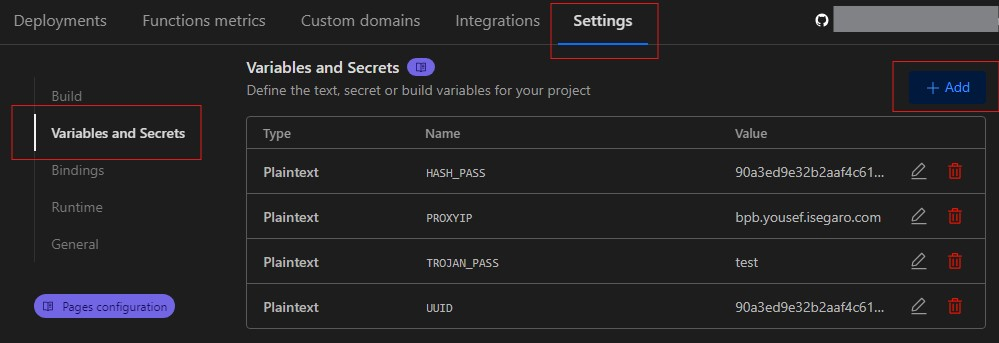
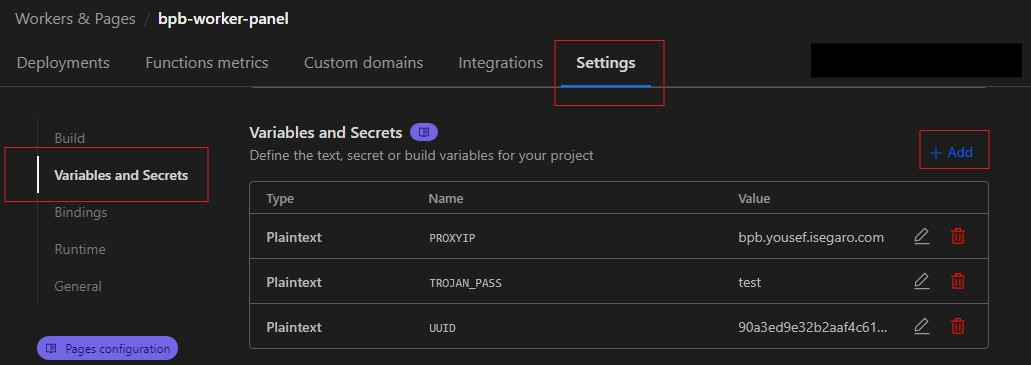
Updated docs.

diff --git a/src/_worker.js b/src/_worker.js
@@ -3865,7 +3865,7 @@ async function getXrayCustomConfigs(env, proxySettings, hostName, isFragment) {
                 
                 customConfig.remarks = remark;
                 if (chainProxy) {
-                    customConfig.outbounds.unshift(chainProxy, { ...outbound});
+                    customConfig.outbounds.unshift(chainProxy, {...outbound});
                     isDomain(addr)
                         ? customConfig.dns.servers[chainDnsServerIndex].domains.push(`full:${addr}`)
                         : customConfig.dns.servers.splice(chainDnsServerIndex, 1);
@@ -4889,7 +4889,7 @@ async function getSingBoxCustomConfig(env, proxySettings, hostName, client, isFr
     const customCdnAddresses = customCdnAddrs ? customCdnAddrs.split(',') : [];
     const totalAddresses = [...Addresses, ...customCdnAddresses];
     const totalPorts = ports.filter(port => isFragment ? defaultHttpsPorts.includes(port) : true);
-    let remark, path;
+    let remark;
     let proxyIndex = 1;
     const protocols = [
         ...(vlessConfigs ? ['VLESS'] : []),

diff --git a/docs/worker_installation_fa.md b/docs/worker_installation_fa.md
@@ -6,7 +6,7 @@
   <img src="assets/images/Worker_mobile_upload.jpg">
 </p>
 
-پنل با UUID و Proxy IP و پسوردهای Trojan پیشفرض خودش کار میکنه و میتونید ادامه بدید، ولی اگر خواستید تغییر بدید به بخش [تنظیمات پیشرفته](#تنظیمات-پیشرفته-اختیاری) برید و برگردید اینجا.
+پنل با UUID و Proxy IP و پسورد Trojan پیشفرض خودش کار میکنه و میتونید ادامه بدید، ولی اگر خواستید تغییر بدید به بخش [تنظیمات پیشرفته](#تنظیمات-پیشرفته-اختیاری) برید و برگردید اینجا.
 
  در نهایت ورکر رو `Save and Deploy` کنید.
 حالا از اینجا به داشبورد ورکر برگردید و این مراحل را دنبال کنید:
@@ -37,58 +37,51 @@
 نصب به پایان رسیده و توضیحاتی که در ادامه اومده شاید برای عموم لازم نباشه.
 آموزشهای تنظیمات و نکات هم که توی [آموزش اصلی](configuration_fa.md)  هست.
 <br><br>
-##  تنظیمات پیشرفته (اختیاری)
-شاید تا الان متوجه شده باشید که در مورد تغییر UUID و Proxy IP و پسورد Trojan چیزی نگفتیم چون میتونید از پیشفرض خود پنل استفاده کنید. اما برای تغییرشون میتونید مراحل زیر رو دنبال کنید، توصیه میشه حداقل UUID و پسوردهای Trojan رو تغییر بدید. 
+<h1 align="center">تنظیمات پیشرفته (اختیاری)</h1>
 
-### 1- تغییر UUID
-همونطور که میدونید UUID  مثل اسم رمزی میمونه که داخل لینکهای اشتراک و کانفیگ ها قرار میگیره و شما در صورت نیاز میتونید تغییر بدید. در صورت تغییر این پارامتر اتصال کاربرهای شما قطع میشه  و لازم هست لینک اشتراک و یا کانفیگ ها رو مجددا در اختیارشون قرار بدید. در صورتی که این UUID رو در این مرحله تعریف نکنید هم کد از یک UUID پیشفرض استفاده خواهد کرد.
+شاید تا الان متوجه شده باشید که در مورد تغییر UUID و Proxy IP و پسورد Trojan چیزی نگفتیم، چون شما میتونید بدون انجام این مرحله از تنظیمات پیشفرض پنل استفاده کنید. ولی توصیه میکنم حداقل UUID و پسورد Trojan رو عوض کنید.
+<br><br>
 
-تو خط 9 یه UUID هست و میتونید تغییرش ندید ولی ترجیحا اینجوری عوضش کنید: از [اینجا](https://www.uuidgenerator.net/) (تو خط 9 کد هم هست) یه UUID بگیرید و کپی کنید تو خط 10 جای قبلی و تمام. ورکر رو Save and Deploy کنید.
+## 1- تغییر UUID:
 
+همونطور که میدونید UUID  مثل اسم رمزی میمونه که داخل لینکهای اشتراک و کانفیگ ها قرار میگیره و شما در صورت نیاز میتونید تغییر بدید. در صورت تغییر این پارامتر اتصال کاربرهای شما قطع میشه و لازم هست لینک اشتراک و یا کانفیگ ها رو مجددا در اختیارشون قرار بدید. در صورتی که این UUID رو در این مرحله تعریف نکنید هم کد از یک UUID پیشفرض استفاده خواهد کرد.
+<br><br>
 
-
-### 2- ثابت کردن Proxy IP
+## 2- ثابت کردن Proxy IP:
 
 ما یه مشکلی داریم که این کد به صورت پیشفرض از تعداد زیادی IP Proxy استفاده میکنه که برای هر بار اتصال به سایتای پشت کلادفلر ( شامل بخش وسیعی از وب میشه) به صورت رندوم IP جدیدی انتخاب میکنه و در نتیجه به صورت متناوب IP شما تغییر پیدا میکنه. این تغییر IP شاید برای برخی مشکل ساز باشه (مخصوصا تریدرها). برای تغییر Proxy IP از ورژن 2.3.5 به بعد میتونید از طریق خود پنل انجام بدید، به این ترتیب که اعمال میکنید و ساب رو آپدیت میکنید و تمام. اما توصیه میکنم از روشی که در ادامه توضیح دادم استفاده کنید چون:
 
 > [!CAUTION]
 > اگر از طریق پنل Proxy IP رو اعمال کنید و اون IP از کار بیافته، باید یه IP جایگزین کنید و ساب رو آپدیت کنید. معنیش اینه که اگر کانفیگ اهدا کرده باشید و Proxy IP رو تغییر بدید دیگه فایدهای نداره چون یوزر ساب نداره که کانفیگ رو آپدیت کنه. بنابراین توصیه میشه از این روش فقط برای مصرف شخصی استفاده کنید. اما خوبی روش دوم که در ادامه میگم اینه که از طریق داشبورد کلادفلر انجام میشه و نیازی به آپدیت کردن کانفیگها نداره.
+<br><br>
+
+## 3- تغییر پسورد Trojan:
+
+پروتکل Trojan با پسورد پیشفرض خودش کار میکنه ولی با توجه به اینکه تعداد زیادی از این پنل استفاده میکنن، توصیه میکنم حتما این پسورد عوض بشه.
+
 <br>
 
-این لینک رو باز کنید (داخل کد ورکر خط 12 هم گذاشتم) یه تعدادی IP نشون میده که میتونید کشورشون رو هم چک کنید و یه دونه انتخاب کنید.
+برای تغییر UUID و Proxy IP و پسورد Trojan از منوی سمت چپ به قسمت `Workers & Pages` برید، ورکری که ساختید رو باز کنید، برید به قسمت `Settings` و `Variables and Secrets` رو پیدا کنید:
+
+<p align="center">
+  <img src="assets/images/Workers_variables.jpg">
+</p>
+
+اینجا باید مقادیر رو مشخص کنید. هر بار `Add` میزنید و یه کدوم رو وارد میکنید و `Deploy` میکنید:
+
+<p align="center">
+  <img src="assets/images/Workers_add_variables.jpg">
+</p>
+
+یه بار `Add variable` بزنید و خونه اول رو بنویسید `UUID` با حروف بزرگ، بعد از [اینجا](https://www.uuidgenerator.net/) یه UUID بگیرید و بذارید خونه دوم.
+
+حالا یه بار دیگه `Add variable` بزنید خونه اول `PROXYIP` با حروف بزرگ، IP رو هم میتونید از لینک زیر بگیرید، اینا رو باز کنید یه تعدادی IP نشون میده که میتونید کشورشون رو هم چک کنید و یه دونه انتخاب کنید:
 
 >[Proxy IP](https://www.nslookup.io/domains/bpb.yousef.isegaro.com/dns-records/)
-
 
 <p align="center">
   <img src="assets/images/Proxy_ips.jpg">
 </p>
 
-متن اول خط 14 به این صورت است:
-
-```javascript
-const proxyIPs= ['bpb.yousef.isegaro.com'];
-```
-
-بعد که خواستید IP رو بذارید این شکلی میشه:
-```javascript
-const proxyIPs = ['8.218.149.193'];
-```
-
-ورکر رو `Save and Deploy` کنید.
-> [!WARNING]
-> فقط حواستون باشه تعداد این IP ها زیاده و ممکنه تعداد زیادیشون از کار افتاده باشن. باید تست کنید تا یه خوبشو سوا کنید.
-
-> [!CAUTION]
-> اگر از تک IP استفاده کنید احتمالا بعد یه مدت دوباره از کار میافته و خیلی سایتا باز نمیشن. باید از اول این مراحلو برید.
-
-
-### 3- پسوردهای Trojan
-
-پروتکل Trojan با پسوردهای پیشفرض خودش کار میکنه ولی با توجه به اینکه تعداد زیادی از این پنل استفاده میکنن، توصیه میکنم حتما این دو تا پسورد عوض بشن. اگر به خط 18 نگاه کنید پسورد پیشفرض bpb-trojan رو میبینید، میتونید یه پسورد دلخواه اینجا بذارید، ولی دقت کنید هر وقت عوضش کنید نیازه که پسورد hash در خط 21 رو هم عوض کنید. به این شکل که پسورد جدید رو میذارید داخل یکی از لینکهای زیر و hash تولید شده رو میذارید خط 21:
-- وارد این سایت بشید و پسورد دلخواهتون رو بذارید input خودش قسمت output سریع hash رو بهتون میده.
-> https://emn178.github.io/online-tools/sha224.html
-
-- اگر از این استفاده میکنید، پسورد رو میذارید سمت چپ و convert رو میزنید.
-
-> https://www.atatus.com/tools/sha224-to-hash
+یه بار دیگه `Add variable` بزنید خونه اول `TROJAN_PASS` با حروف بزرگ، یه پسورد دلخواه بذارید.
+<br><br>

diff --git a/docs/pages_installation_fa.md b/docs/pages_installation_fa.md
@@ -82,16 +82,17 @@
 آموزشهای تنظیمات و نکات هم که تو [آموزش اصلی](configuration_fa.md)  هست.
 نصب به پایان رسیده و توضیحاتی که در ادامه اومده شاید برای عموم لازم نباشه!
 <br><br>
-##  تنظیمات پیشرفته (اختیاری)
-شاید تا الان متوجه شده باشید که در مورد تغییر UUID و Proxy IP و پسوردای Trojan چیزی نگفتیم، چون شما میتونید بدون انجام این مرحله از تنظیمات پیشفرض پنل استفاده کنید. ولی توصیه میکنم حداقل UUID و پسوردهای Trojan رو عوض کنید.
+<h1 align="center">تنظیمات پیشرفته (اختیاری)</h1>
+
+شاید تا الان متوجه شده باشید که در مورد تغییر UUID و Proxy IP و پسورد Trojan چیزی نگفتیم، چون شما میتونید بدون انجام این مرحله از تنظیمات پیشفرض پنل استفاده کنید. ولی توصیه میکنم حداقل UUID و پسورد Trojan رو عوض کنید.
 <br><br>
 
-### 1- تغییر UUID:
+## 1- تغییر UUID:
 
 همونطور که میدونید UUID  مثل اسم رمزی میمونه که داخل لینکهای اشتراک و کانفیگ ها قرار میگیره و شما در صورت نیاز میتونید تغییر بدید. در صورت تغییر این پارامتر اتصال کاربرهای شما قطع میشه  و لازم هست لینک اشتراک و یا کانفیگ ها رو مجددا در اختیارشون قرار بدید. در صورتی که این UUID رو در این مرحله تعریف نکنید هم کد از یک UUID پیشفرض استفاده خواهد کرد.
 <br><br>
 
-### 2- ثابت کردن Proxy IP:
+## 2- ثابت کردن Proxy IP:
 
 ما یه مشکلی داریم که این کد به صورت پیشفرض از تعداد زیادی IP Proxy استفاده میکنه که برای هر بار اتصال به سایتای پشت کلادفلر ( شامل بخش وسیعی از وب میشه) به صورت رندوم IP جدیدی انتخاب میکنه و در نتیجه به صورت متناوب IP شما تغییر پیدا میکنه. این تغییر IP شاید برای برخی مشکل ساز باشه (مخصوصا تریدرها). برای تغییر Proxy IP از ورژن 2.3.5 به بعد میتونید از طریق خود پنل انجام بدید، به این ترتیب که اعمال میکنید و ساب رو آپدیت میکنید و تمام. اما توصیه میکنم از روشی که در ادامه توضیح دادم استفاده کنید چون:
 
@@ -99,19 +100,25 @@
 > اگر از طریق پنل Proxy IP رو اعمال کنید و اون IP از کار بیافته، باید یه IP جایگزین کنید و ساب رو آپدیت کنید. معنیش اینه که اگر کانفیگ اهدا کرده باشید و Proxy IP رو تغییر بدید دیگه فایدهای نداره چون یوزر ساب نداره که کانفیگ رو آپدیت کنه. بنابراین توصیه میشه از این روش فقط برای مصرف شخصی استفاده کنید. اما خوبی روش دوم که در ادامه میگم اینه که از طریق داشبورد کلادفلر انجام میشه و نیازی به آپدیت کردن کانفیگها نداره.
 <br><br>
 
-### 3- تغییر پسوردهای Trojan:
+## 3- تغییر پسورد Trojan:
 
-پروتکل Trojan با پسوردهای پیشفرض خودش کار میکنه ولی با توجه به اینکه تعداد زیادی از این پنل استفاده میکنن، توصیه میکنم حتما این دو تا پسورد عوض بشن.
+پروتکل Trojan با پسورد پیشفرض خودش کار میکنه ولی با توجه به اینکه تعداد زیادی از این پنل استفاده میکنن، توصیه میکنم حتما عوضش کنید.
 
 <br>
 
-برای تغییر UUID و Proxy IP و پسوردهای Trojan توی همین صفحه (قدم سوم، جایی که BPB-Worker-Panel رو انتخاب میکنید) میاید پایین و قسمت `Environment variables` رو باز میکنید:
+برای تغییر UUID و Proxy IP و پسورد Trojan توی همین صفحه (قدم سوم، جایی که BPB-Worker-Panel رو انتخاب میکنید) میاید پایین و قسمت `Environment variables` رو باز میکنید:
 
 <p align="center">
   <img src="assets/images/Pages_env_vars.jpg">
 </p>
 
-اینجا باید مقادیر رو مشخص کنید. یه بار `Add variable` بزنید و خونه اول رو بنویسید `UUID` با حروف بزرگ، بعد از [اینجا](https://www.uuidgenerator.net/) یه UUID بگیرید و بذارید خونه دوم.
+اینجا باید مقادیر رو مشخص کنید. هر بار `Add` میزنید و یه کدوم رو وارد میکنید و `Save` میکنید:
+
+<p align="center">
+  <img src="assets/images/Pages_add_variables.jpg">
+</p> 
+
+یه بار `Add variable` بزنید و خونه اول رو بنویسید `UUID` با حروف بزرگ، بعد از [اینجا](https://www.uuidgenerator.net/) یه UUID بگیرید و بذارید خونه دوم.
 
 حالا یه بار دیگه `Add variable` بزنید خونه اول `PROXYIP` با حروف بزرگ، IP رو هم میتونید از لینک زیر بگیرید، اینا رو باز کنید یه تعدادی IP نشون میده که میتونید کشورشون رو هم چک کنید و یه دونه انتخاب کنید:
 
@@ -123,14 +130,6 @@
 
 یه بار دیگه `Add variable` بزنید خونه اول `TROJAN_PASS` با حروف بزرگ، یه پسورد دلخواه بذارید.
 
-دوباره `Add variable` بزنید خونه اول `HASH_PASS` با حروف بزرگ و:
-- وارد این سایت بشید و `TROJAN_PASS` رو بذارید input خودش قسمت output سریع `HASH_PASS` رو بهتون میده.
-> https://emn178.github.io/online-tools/sha224.html
-
-- یا اگر از این استفاده میکنید، `TROJAN_PASS` رو میذارید سمت چپ و convert رو میزنید.
-
-> https://www.atatus.com/tools/sha224-to-hash
-
 > [!TIP]
 > اگر موقع دپلوی کردن این تنظیمات رو انجام ندادید بعدا هم میتونید از قسمت Settings این مقادیر رو اضافه کنید. از قسمت `Workers and Pages` وارد اون پروژهی Pages بشید که ساختید، با توجه به عکس زیر برید قسمت `Settings` و پایینتر `Variables and Secrets`:
 
@@ -138,18 +137,10 @@
   <img src="assets/images/Pages_variables.jpg">
 </p>
 
-هر بار `Add` میزنید و یه کدوم رو وارد میکنید و `Save` میکنید:
-
-<p align="center">
-  <img src="assets/images/Pages_add_variables.jpg">
-</p>
-
 و در نهایت از نوار بالا به قسمت `Deployment` برگردید و از بخش `Production` برید به `view details` و تو قسمت `Deployment detail` دکمهی `Manage Deployment` رو بزنید و `Retry deployment`.
-<br>
-<br>
+<br><br>
+<h1 align="center">بروزرسانی پنل</h1>
 
-
-## بروز رسانی:
 یکی از مزیتهای Pages نسبت به Worker اینه که وقتی آپدیتی برای کد منتشر میشه دیگه نیازی نیست برید ورژن جدید worker.js رو دانلود کنید و روز از نو روزی از نو! اصلا برای آپدیت دیگه کاری به کلادفلر ندارید. کافیه به گیتهاب خودتون برید وارد ریپازیتوری `BPB-Worker-Panel` بشید و از اینجا `Sync fork` رو بزنید:
 
 <p align="center">

diff --git a/docs/faq.md b/docs/faq.md
@@ -69,6 +69,9 @@
 - `https://8.8.8.8/dns-query`
 - `tcp://8.8.8.8`
 - `tls://8.8.8.8`
-
-توصیه میکنم از ساب Full Normal یا Fragment استفاده کنید که همهی تنظیمات رو خودش داره.
+ - توصیه میکنم از ساب Full Normal یا Fragment استفاده کنید که همهی تنظیمات رو خودشون دارن.
 <br>
+
+16- چرا ChatGPT باز نمیشه؟
+- بخاطر اینکه Proxy IP های پیشفرض پنل عمومی هستن و ممکنه خیلیاشون برای ChatGPT مشکوک باشن. از لینک زیر باید بگردید تست کنید و یه IP مناسب برای خودتون بردارید:
+> https://www.nslookup.io/domains/bpb.yousef.isegaro.com/dns-records/
